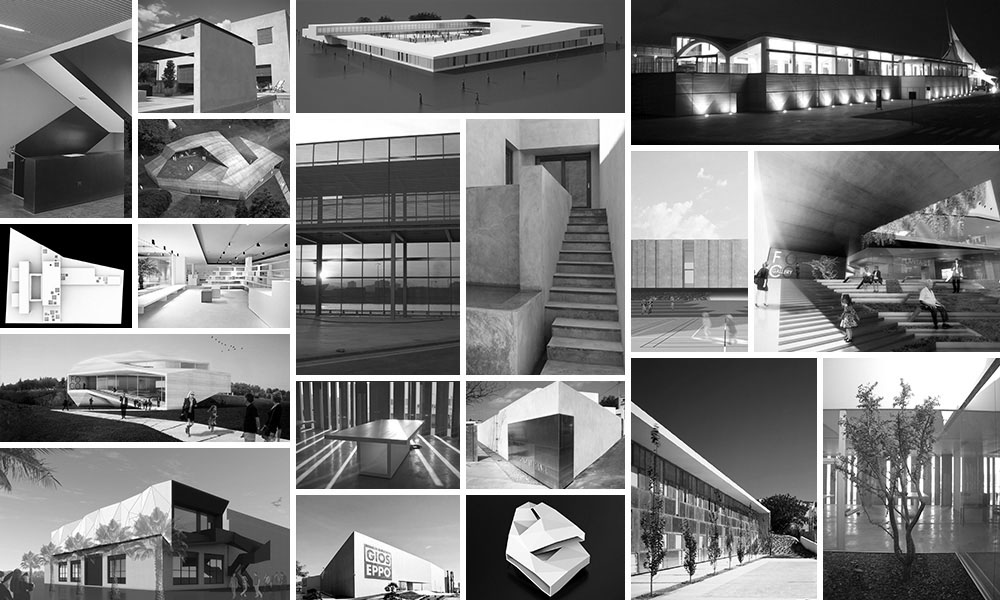
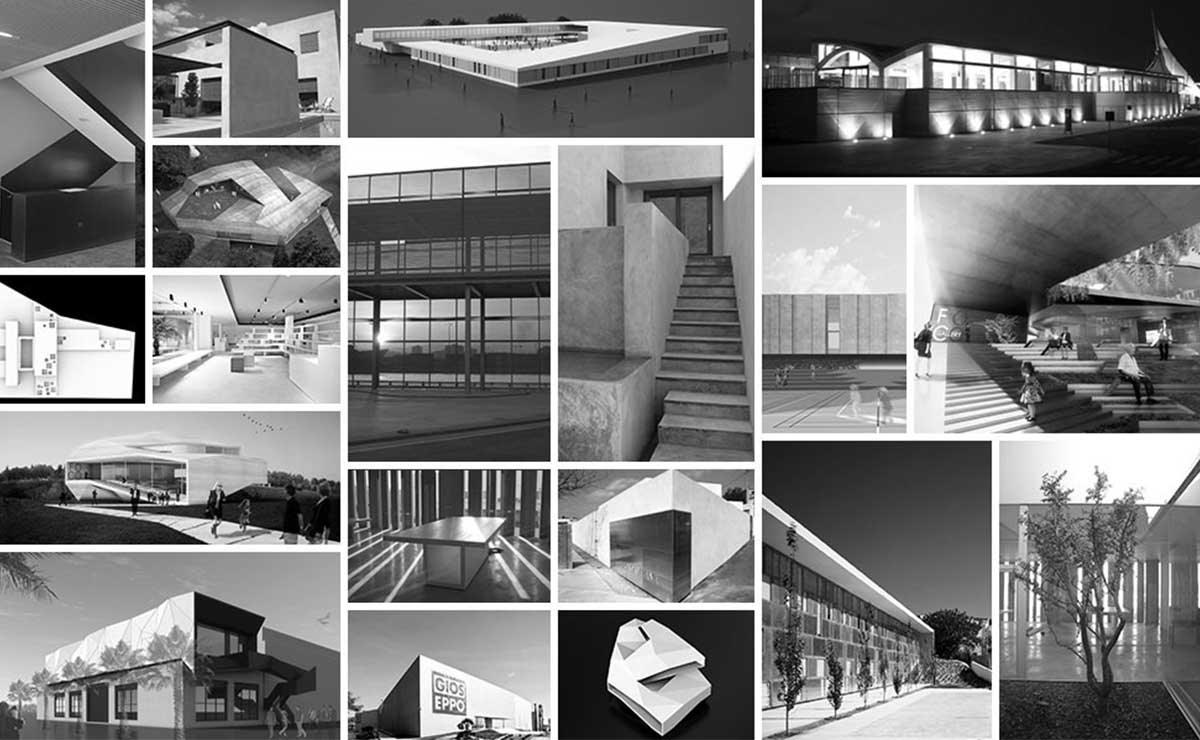
Cambios

diff --git a/Benoit_Sanchez/Web/base/proyectos/colaboraciones.php b/Benoit_Sanchez/Web/base/proyectos/colaboraciones.php
@@ -40,7 +40,7 @@
   <?php include("../comun/header.php"); ?>
     <?php include("categorias.php");?>
     <div class="description content-right">
-        <img src="/img/proyectos/colaboraciones/collage.jpg" style="float:right"/>
+        <img src="/img/proyectos/colaboraciones/collage.jpg" style="width:100%"/>
     </div>
   </div>
 
